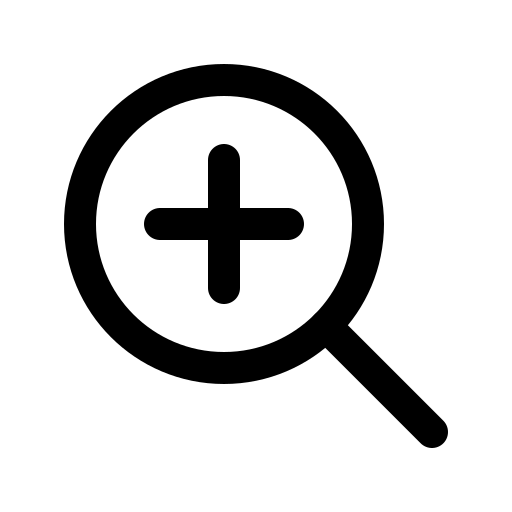
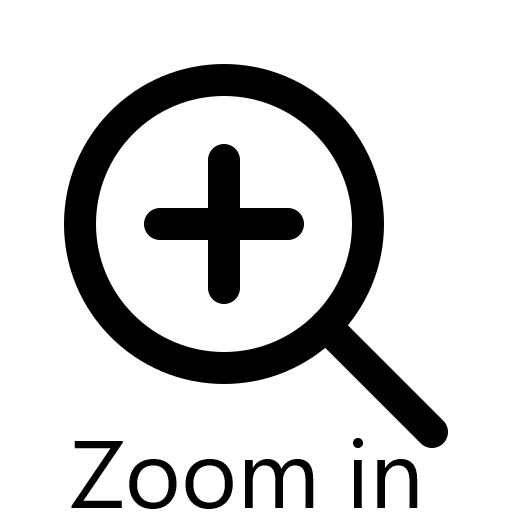
zoom modifier (cursor + txt en dessous + espacement légèrement augmenté)

Changed region(s): [[0.125, 0.8438, 0.625, 1.0], [0.6875, 0.8438, 0.8438, 1.0]]

diff --git a/css/canvas.css b/css/canvas.css
@@ -31,8 +31,9 @@ Définit le style général du site ainsi que celui de chaque plugin
     z-index: 50;
     width : 50px;
     height : 50px;
+    cursor: pointer;
 }
 
 #zoom_out {
-    left : 50px;
+    left : 65px;
 }
